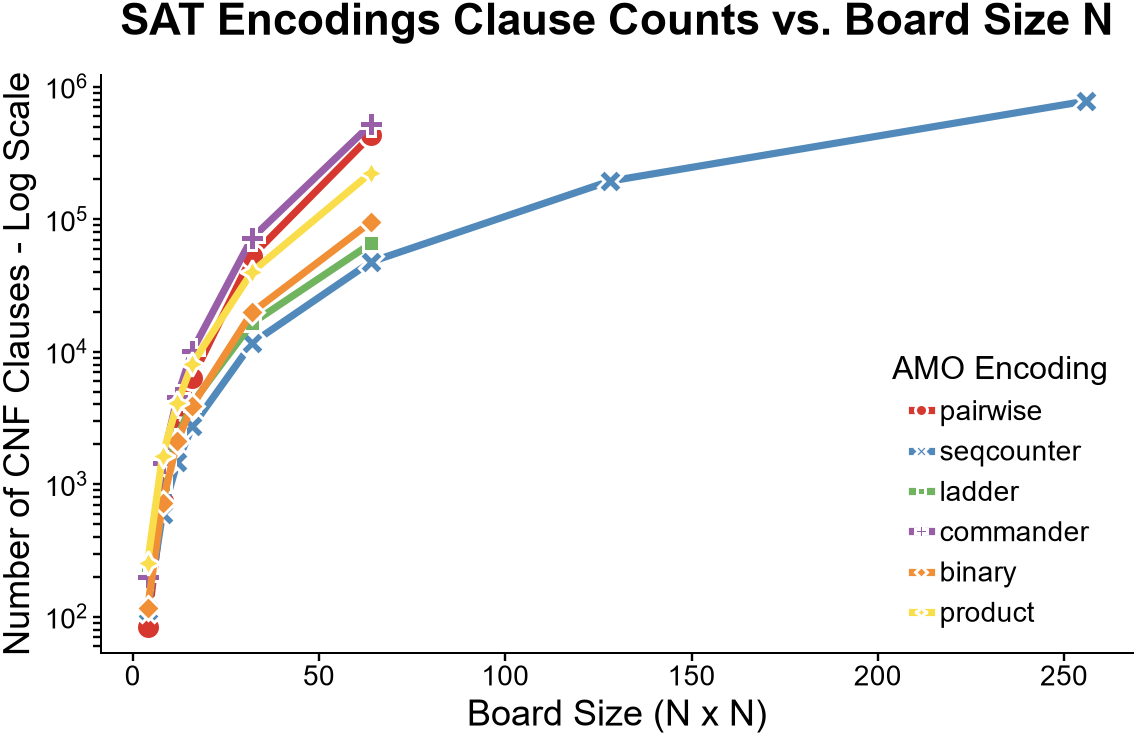
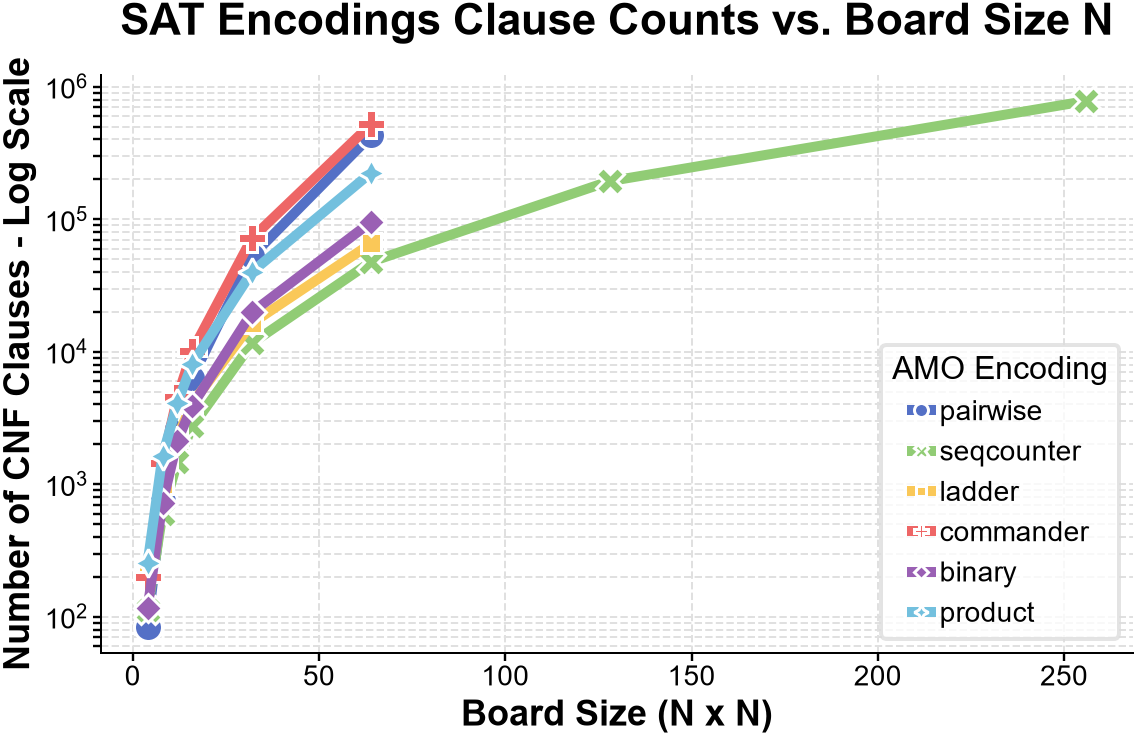
Update CNSPlots style to extremely bright ECharts palette with bolder lines and boxed gridlines for maximum contrast

diff --git a/scripts/plot_results.py b/scripts/plot_results.py
@@ -15,7 +15,7 @@ def generate_plots():
             return
         
     print("=========================================================")
-    print(" VISUALIZING EXPERIMENTAL RESULTS VIA CNSPLOTS           ")
+    print(" VISUALIZING EXPERIMENTAL RESULTS VIA CNSPLOTS (BRIGHT)  ")
     print("=========================================================")
     
     df = pd.read_csv(csv_path)
@@ -33,8 +33,8 @@ def generate_plots():
     # 1. CHART 1: SAT Encodings Solving Time Comparison
     sat_df = df_opt[df_opt["Paradigm"] == "SAT"].copy()
     if not sat_df.empty:
-        # Sử dụng cnsplots canvas (kích thước tối ưu cho journal 300x200 pt)
-        cns.figure(300, 200)
+        # Sử dụng cnsplots canvas với bảng màu sáng ECharts cực kỳ nổi bật
+        cns.figure(300, 200, color_cycle='ECharts')
         ax = plt.gca()
         sns.lineplot(
             ax=ax,
@@ -45,13 +45,15 @@ def generate_plots():
             style="Encoding",
             markers=True,
             dashes=False,
-            linewidth=1.8
+            linewidth=2.5,
+            markersize=7
         )
         ax.set_yscale("log")
         ax.set_title("SAT Encodings Comparison: Solving Time vs. Board Size N", fontsize=11, fontweight='bold', pad=10)
-        ax.set_xlabel("Board Size (N x N)", fontsize=9)
-        ax.set_ylabel("Solving Time (seconds) - Log Scale", fontsize=9)
-        ax.legend(title="AMO Encoding", frameon=False, loc="best")
+        ax.set_xlabel("Board Size (N x N)", fontsize=9, fontweight='bold')
+        ax.set_ylabel("Solving Time (seconds) - Log Scale", fontsize=9, fontweight='bold')
+        ax.legend(title="AMO Encoding", frameon=True, facecolor='white', edgecolor='#dddddd', loc="best")
+        ax.grid(True, which='both', linestyle='--', linewidth=0.5, color='#e0e0e0')
         plt.tight_layout()
         
         plot_path = os.path.join(results_dir, "sat_encodings_time_comparison.png")
@@ -61,7 +63,7 @@ def generate_plots():
 
     # 2. CHART 2: SAT Encodings Clause Sizes (Number of Clauses vs N)
     if not sat_df.empty:
-        cns.figure(300, 200)
+        cns.figure(300, 200, color_cycle='ECharts')
         ax = plt.gca()
         sns.lineplot(
             ax=ax,
@@ -72,13 +74,15 @@ def generate_plots():
             style="Encoding",
             markers=True,
             dashes=False,
-            linewidth=1.8
+            linewidth=2.5,
+            markersize=7
         )
         ax.set_yscale("log")
         ax.set_title("SAT Encodings Clause Counts vs. Board Size N", fontsize=11, fontweight='bold', pad=10)
-        ax.set_xlabel("Board Size (N x N)", fontsize=9)
-        ax.set_ylabel("Number of CNF Clauses - Log Scale", fontsize=9)
-        ax.legend(title="AMO Encoding", frameon=False, loc="best")
+        ax.set_xlabel("Board Size (N x N)", fontsize=9, fontweight='bold')
+        ax.set_ylabel("Number of CNF Clauses - Log Scale", fontsize=9, fontweight='bold')
+        ax.legend(title="AMO Encoding", frameon=True, facecolor='white', edgecolor='#dddddd', loc="best")
+        ax.grid(True, which='both', linestyle='--', linewidth=0.5, color='#e0e0e0')
         plt.tight_layout()
         
         plot_path = os.path.join(results_dir, "sat_clauses_count_comparison.png")
@@ -98,7 +102,7 @@ def generate_plots():
     cross_df = pd.concat([best_sat, others], ignore_index=True)
     
     if not cross_df.empty:
-        cns.figure(300, 200)
+        cns.figure(300, 200, color_cycle='ECharts')
         ax = plt.gca()
         sns.lineplot(
             ax=ax,
@@ -109,13 +113,15 @@ def generate_plots():
             style="Solver_Label",
             markers=True,
             dashes=False,
-            linewidth=1.8
+            linewidth=2.5,
+            markersize=7
         )
         ax.set_yscale("log")
         ax.set_title("Cross-Paradigm Comparison: Solving Time vs. Board Size N", fontsize=11, fontweight='bold', pad=10)
-        ax.set_xlabel("Board Size (N x N)", fontsize=9)
-        ax.set_ylabel("Solving Time (seconds) - Log Scale", fontsize=9)
-        ax.legend(title="Solver Configuration", frameon=False, loc="best")
+        ax.set_xlabel("Board Size (N x N)", fontsize=9, fontweight='bold')
+        ax.set_ylabel("Solving Time (seconds) - Log Scale", fontsize=9, fontweight='bold')
+        ax.legend(title="Solver Configuration", frameon=True, facecolor='white', edgecolor='#dddddd', loc="best")
+        ax.grid(True, which='both', linestyle='--', linewidth=0.5, color='#e0e0e0')
         plt.tight_layout()
         
         plot_path = os.path.join(results_dir, "cross_paradigm_time_comparison.png")
@@ -127,7 +133,7 @@ def generate_plots():
     if not cross_df.empty:
         cross_df["Peak_Memory_MB"] = cross_df["Peak_Memory_Bytes"] / (1024 * 1024)
         
-        cns.figure(300, 200)
+        cns.figure(300, 200, color_cycle='ECharts')
         ax = plt.gca()
         sns.lineplot(
             ax=ax,
@@ -138,12 +144,14 @@ def generate_plots():
             style="Solver_Label",
             markers=True,
             dashes=False,
-            linewidth=1.8
+            linewidth=2.5,
+            markersize=7
         )
         ax.set_title("Peak Memory Consumption vs. Board Size N", fontsize=11, fontweight='bold', pad=10)
-        ax.set_xlabel("Board Size (N x N)", fontsize=9)
-        ax.set_ylabel("Peak Traced Memory (MB)", fontsize=9)
-        ax.legend(title="Solver Configuration", frameon=False, loc="best")
+        ax.set_xlabel("Board Size (N x N)", fontsize=9, fontweight='bold')
+        ax.set_ylabel("Peak Traced Memory (MB)", fontsize=9, fontweight='bold')
+        ax.legend(title="Solver Configuration", frameon=True, facecolor='white', edgecolor='#dddddd', loc="best")
+        ax.grid(True, which='both', linestyle='--', linewidth=0.5, color='#e0e0e0')
         plt.tight_layout()
         
         plot_path = os.path.join(results_dir, "peak_memory_comparison.png")
